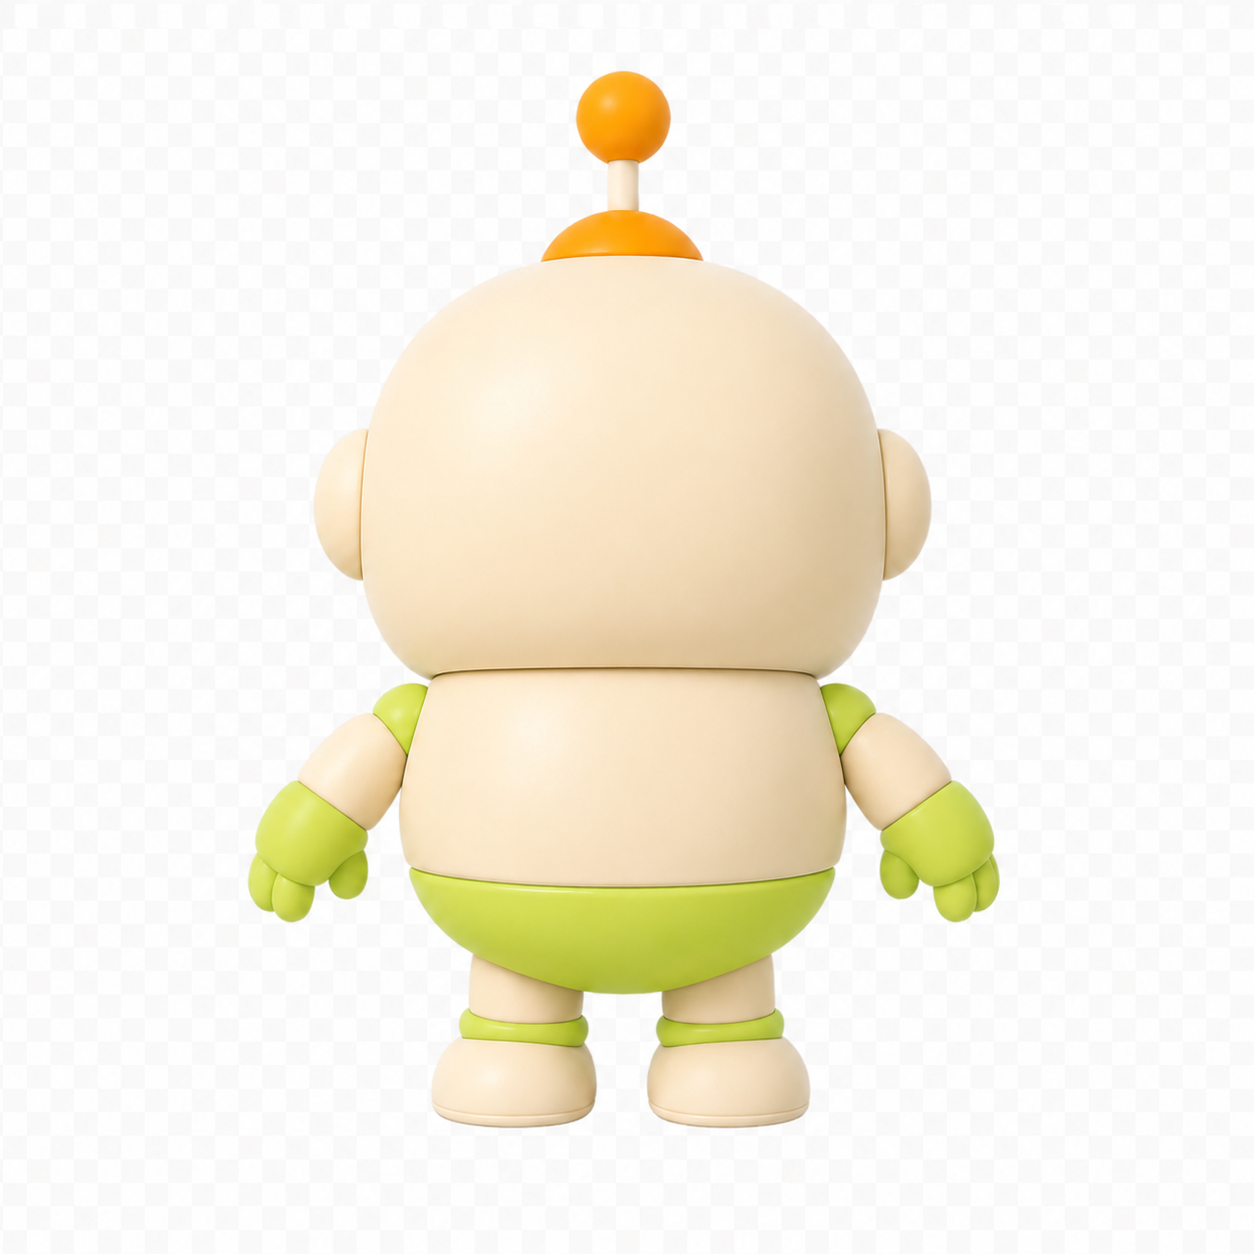
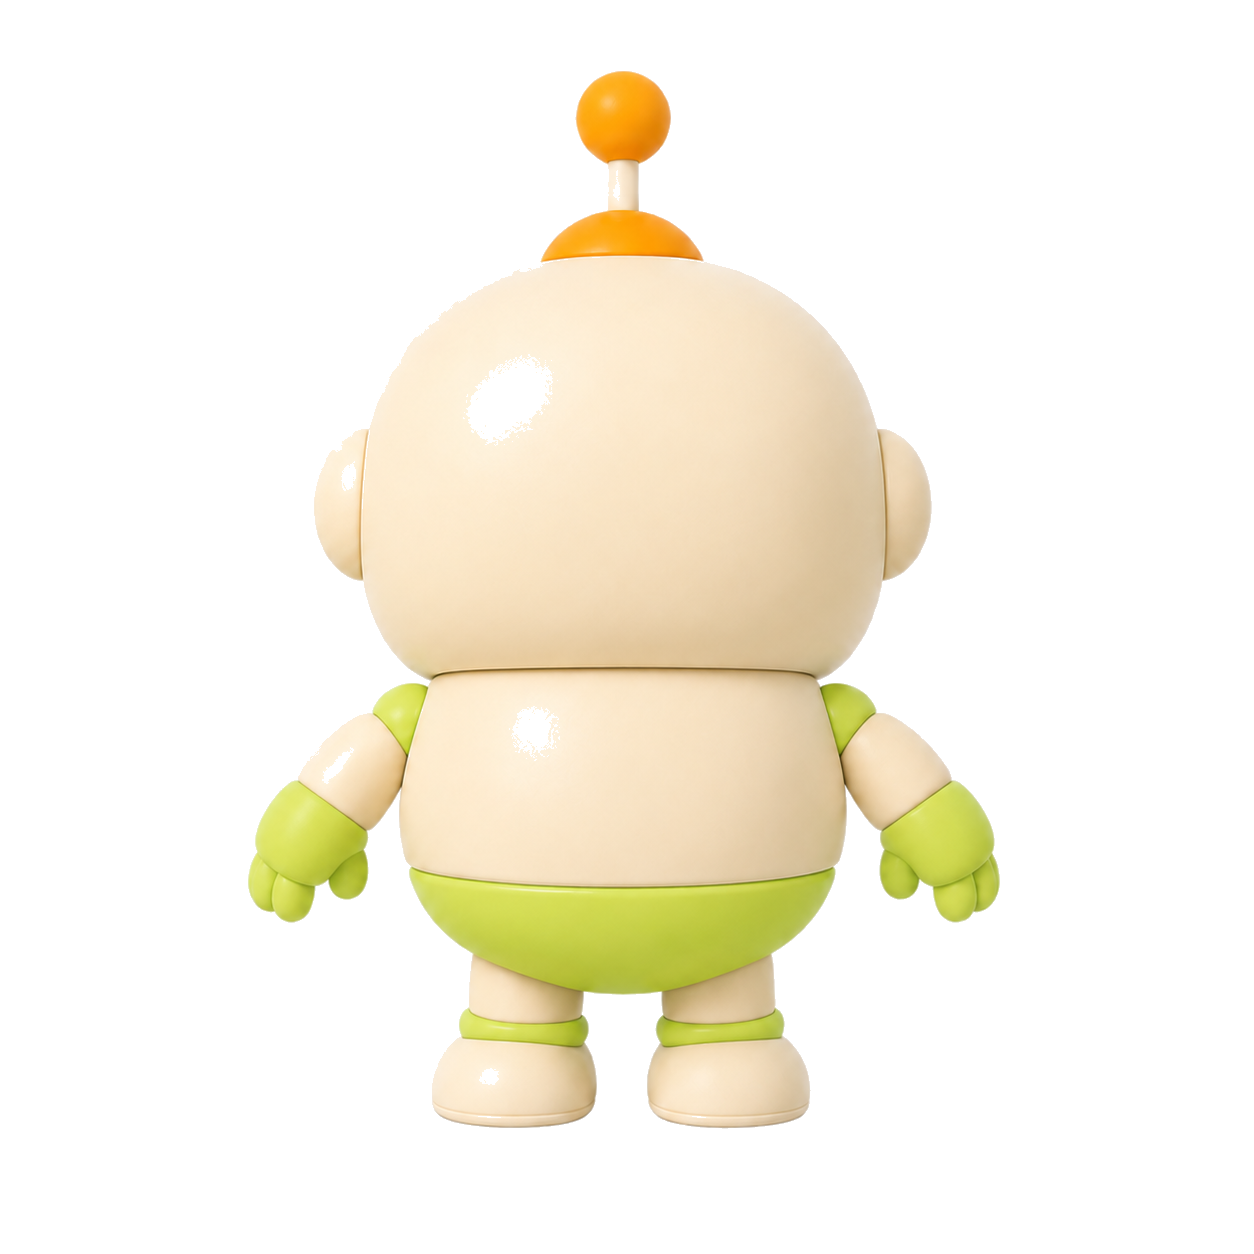
로봇 이미지 흰색 배경 제거 (투명 PNG로 변환)

diff --git a/app/components/RobotSprite.tsx b/app/components/RobotSprite.tsx
@@ -58,7 +58,7 @@ export default function RobotSprite({ pose = "idle", size = 120, style, classNam
         objectFit: "contain",
         display: "block",
         transform: flipped ? "scaleX(-1)" : "none",
-        mixBlendMode: "multiply",
+
         imageRendering: "auto",
         ...style,
       }}
